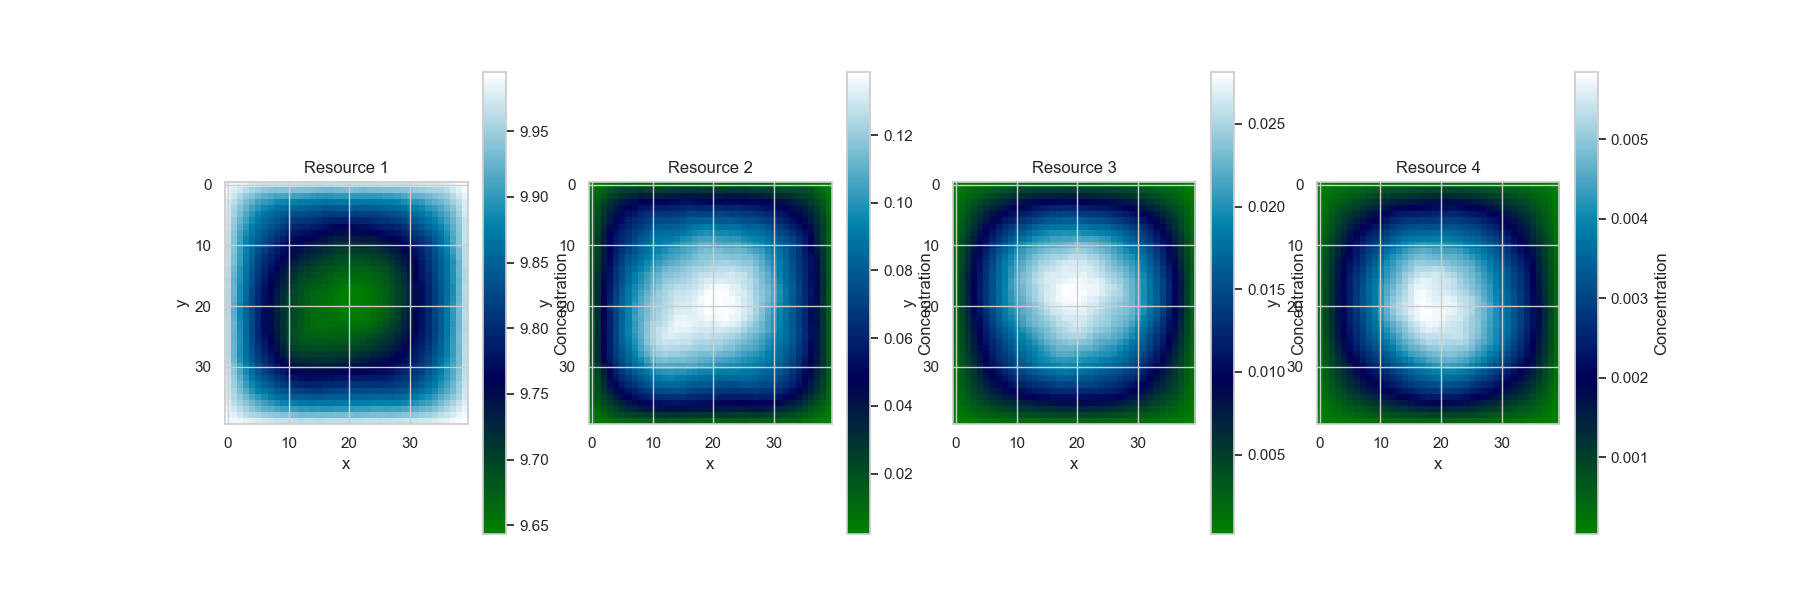
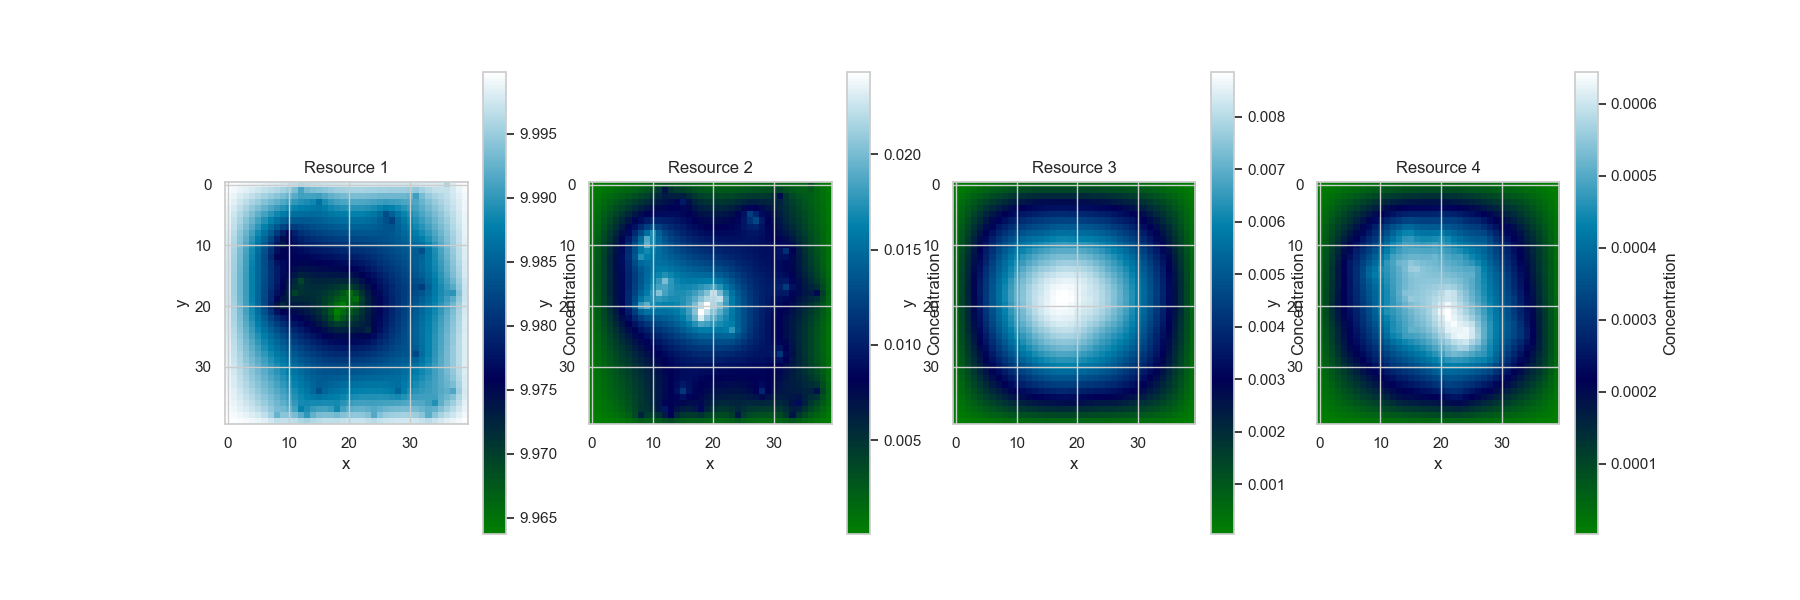
commit

diff --git a/__init_cycl__.py b/__init_cycl__.py
@@ -44,7 +44,7 @@ param = {
     # model parameters
     'R0' : R0.copy(),                                  # initial conc. nxnxn_r [monod constants]
     'w'  : np.ones((n_r))*20,                          # energy conversion     [energy/mass]
-    'l'  : np.array([0.9,0.2,0.2,0.2]),                # leakage               [adim]
+    'l'  : np.array([1,0.8,0.7,0.6]),                  # leakage               [adim]
     'tau': np.array([np.inf,np.inf,np.inf,np.inf]),    # reinsertion rate inv. [time] 
     'g'  : g,                                          # growth conv. factors  [1/energy]
     'm'  : m,                                          # maintainance requ.    [energy/time]
@@ -83,7 +83,7 @@ vispreferences(mat)
 makenet(met_mat)
 
 
-frames, current_R, current_N, g_rates = simulate(1000, f, initial_guess, N0, param, mat)
+frames, current_R, current_N, g_rates = simulate(5000, f, initial_guess, N0, param, mat)
 
 R_ongrid(current_R)
 G_ongrid(g_rates,encode(frames[-2], np.array([0,1,2])))

diff --git a/__initaux__.py b/__initaux__.py
@@ -52,7 +52,7 @@ param = {
     'n'  : n,                                          # grid points in each dim
     'sor': 1.85,                                       # relaxation parameter
     'L'  : 40,                                         # grid true size        [length]
-    'D'  : 1e1,                                        # diffusion constant    [area/time] 
+    'D'  : 1e2,                                        # diffusion constant    [area/time] 
     'acc': 1e-3,                                      # maximum accepted stopping criterion   
     'ref': 0                                           # number of grid refinements to perform 
 }
@@ -74,7 +74,7 @@ mat = {
 }
 
 
-frames, current_R, current_N, g_rates = simulate(3000, f, initial_guess, N, param, mat)
+frames, current_R, current_N, g_rates = simulate(5000, f, initial_guess, N, param, mat)
 
 R_ongrid(current_R)
 G_ongrid(g_rates,encode(frames[-2], np.array([0,1])))
